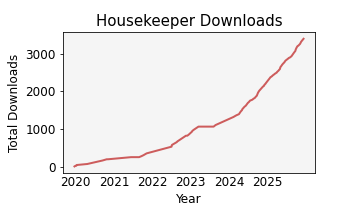
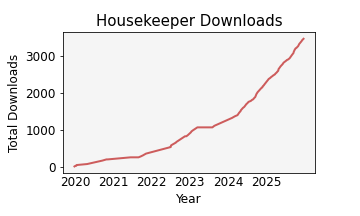
Minor cleanup

diff --git a/release_notes.md b/release_notes.md
@@ -31,7 +31,7 @@ Added an option to show the thumbnail of a selected file.  On the toolbar, click
   <img src="My%20Project/media/preview_window.png">
 </p>
 
-Added another option to display a lot of information about the selected file.  To view, hold down the shift key then click the eye icon.
+Added another option to display additional information about the selected file.  To view, hold down the shift key then click the eye icon.
 
 <p align="center">
   <img src="My%20Project/media/solid_edge_explorer.png">
@@ -46,9 +46,11 @@ Sponsored by **@john.matthews3452 (Hatch).**  Thank you!
 
 Added sheet processing options to the `Add Blocks` function.
 
-The change affects the second stage of the function, where it checks each sheet of the template and places a block occurrence on the corresponding sheet in the file.  The difference is how a corresponding sheet is defined.
+The change affects the second stage of the function, where it checks each sheet of the template and places a block occurrence on the corresponding sheet in the file.  What is new is how the "corresponding sheet" is determined.
 
-Previously it meant that the sheet names match.  Now, for working sheets, you can optionally add by sheet order, or add to all sheets.  For background sheets, it still checks the name first.  But now, if no matching name is found, you can optionally add by sheet size.
+Previously it meant that the sheet names match.  You can still do it that way, but now, for working sheets, you can optionally add by sheet order, or add to all sheets.  For background sheets, it always checks the name first.  If no matching name is found, you can optionally add by sheet size.
+
+In addition to the sheet processing options, an enhancement was made to avoid  duplicating blocks.  During placement, if a block with the same name, location, etc. is found, the new block is not added.
 
 See the [<ins>**Update Blocks Help Topic**</ins>](https://github.com/rmcanany/SolidEdgeHousekeeper/blob/master/HelpTopics.md#update-blocks) for details.
 
@@ -64,13 +66,13 @@ See the [<ins>**Command Line Help Topic**</ins>](https://github.com/rmcanany/Sol
 
 ### Break Links
 
-For the option `Draft model links`, added the processing of Blocks for property text replacement.  (Thank you **@john.matthews3452!**)
+For the option `Draft model links`, added the processing of Blocks for property text replacement.  (Thank you again **@john.matthews3452!**)
 
 See the [<ins>**Break Links Help Topic**</ins>](https://github.com/rmcanany/SolidEdgeHousekeeper/blob/master/HelpTopics.md#break-links) for details.
 
 ### Run External Program
 
-For code snippets, changed processing from PowerShell to an internal dotnet library.  (Thank you **@sven-11111** and **@Monostre!**)  The internal library is supposed to be more compatible with different user system configurations.  Did the same for Expressions.
+For `code snippets`, changed processing from PowerShell to an internal dotnet library.  (Thank you **@sven-11111** and **@Monostre!**)  The internal library is supposed to be more compatible with different user system configurations.  Did the same for `expressions` and `property filters`.
 
 See the [<ins>**Run External Program Help Topic**</ins>](https://github.com/rmcanany/SolidEdgeHousekeeper/blob/master/HelpTopics.md#run-external-program) for details.
 
@@ -81,7 +83,7 @@ See the [<ins>**Run External Program Help Topic**</ins>](https://github.com/rmca
 - Fixed an issue in the example code snippet `FitIso.snp` where the command ID for draft files was incorrect.
 - Fixed an issue in `Update Physical Properties` where a check of the mass in the variable table was not accounting for localized names.  (Thank you **@Stefano-VLN!**)
 - Fixed an issue with top-level assembly search where non-existent draft files were being added to the list.  (Thank you **@Nick_Mokrytskyi!**)
-- Fixed a regression where `OLEMessageFilter` was no longer being activated at Task launch.
+- Fixed a regression where `OLEMessageFilter` was no longer being activated at Task launch.  (Thank you **@PBurkeADS!**)
 - Fixed an issue where users running preview code were not notified when the finalized version was released.
 - Changed the formatting of Task sub-options to better show to which main option they apply.
 

diff --git a/HelpTopics.md b/HelpTopics.md
@@ -17,7 +17,7 @@ Hatch Industries (hatch.com), Breit Ideas (breitideas.com), Pelican Industries (
 @JayJay04, @Cimarian_RMP, @n0minus38, @xenia.turon, @MonkTheOCD_Engie, @HIL, @[Robin BIoemberg], @[Jan Bos], @Rboyd347, @Jojo15702, @ih0nza, @mefrebo, @KGeetings, @tempod, @john.matthews3452, @Brendan.Lee (github @Bogob22), @sven-11111, @robbin70, @Monostre, @TeeVar
 
 **Helpful feedback and bug reports**  
-@SatyenB, @n0minus38, @wku, @aredderson, @bshand, @TeeVar, @SeanCresswell, @Jean-Louis, @Jan_Bos, @MonkTheOCD_Engie, @[mike miller], @[Francesco Arfilli], @[Martin Bernhard], @[Derek G], @Chris42, @JasonT, @Bob Henry, @JayJay04, @nate.arinta5649, @DaveG, @tempod, @64Pacific, @ben.steele6044, @KennyG, @Alex_H, @Nosybottle, @Seva, @HIL, @[o_o ....码], @roger.ribamatic, @jnewell, @[Robin BIoemberg], @Pedro0996, @Imre Szucs, @Bert303, @gir.isi, @BrianVR74, @CareFrame1, @john.matthews3452, @RBoyd347, @[Artur Sampaio], @pkoevesdi, @Jojo15702, @chjchen, @FERNANDO-DALLAGNOLO, @ih0nza, @mefrebo, @KGeetings, @stephan.morin2873, @Nick_Mokrytskyi, @willhfr, @DieCola85, @[Nataniel Tasev], @sven-11111, @robbin70, @collands, @WoutM25, @Monostre, @Stefano-VLN, @Nick_Mokrytskyi
+@SatyenB, @n0minus38, @wku, @aredderson, @bshand, @TeeVar, @SeanCresswell, @Jean-Louis, @Jan_Bos, @MonkTheOCD_Engie, @[mike miller], @[Francesco Arfilli], @[Martin Bernhard], @[Derek G], @Chris42, @JasonT, @Bob Henry, @JayJay04, @nate.arinta5649, @DaveG, @tempod, @64Pacific, @ben.steele6044, @KennyG, @Alex_H, @Nosybottle, @Seva, @HIL, @[o_o ....码], @roger.ribamatic, @jnewell, @[Robin BIoemberg], @Pedro0996, @Imre Szucs, @Bert303, @gir.isi, @BrianVR74, @CareFrame1, @john.matthews3452, @RBoyd347, @[Artur Sampaio], @pkoevesdi, @Jojo15702, @chjchen, @FERNANDO-DALLAGNOLO, @ih0nza, @mefrebo, @KGeetings, @stephan.morin2873, @Nick_Mokrytskyi, @willhfr, @DieCola85, @[Nataniel Tasev], @sven-11111, @robbin70, @collands, @WoutM25, @Monostre, @Stefano-VLN, @Nick_Mokrytskyi, @PBurkeADS
 
 **Notice:**
 *Portions adapted from code by Jason Newell, Tushar Suradkar, Greg Chasteen, and others.  Most of the rest copied verbatim from Jason's repo or Tushar's blog.*

diff --git a/README.md b/README.md
@@ -17,7 +17,7 @@ Hatch Industries (hatch.com), Breit Ideas (breitideas.com), Pelican Industries (
 @JayJay04, @Cimarian_RMP, @n0minus38, @xenia.turon, @MonkTheOCD_Engie, @HIL, @[Robin BIoemberg], @[Jan Bos], @Rboyd347, @Jojo15702, @ih0nza, @mefrebo, @KGeetings, @tempod, @john.matthews3452, @Brendan.Lee (github @Bogob22), @sven-11111, @robbin70, @Monostre, @TeeVar
 
 **Helpful feedback and bug reports**  
-@SatyenB, @n0minus38, @wku, @aredderson, @bshand, @TeeVar, @SeanCresswell, @Jean-Louis, @Jan_Bos, @MonkTheOCD_Engie, @[mike miller], @[Francesco Arfilli], @[Martin Bernhard], @[Derek G], @Chris42, @JasonT, @Bob Henry, @JayJay04, @nate.arinta5649, @DaveG, @tempod, @64Pacific, @ben.steele6044, @KennyG, @Alex_H, @Nosybottle, @Seva, @HIL, @[o_o ....码], @roger.ribamatic, @jnewell, @[Robin BIoemberg], @Pedro0996, @Imre Szucs, @Bert303, @gir.isi, @BrianVR74, @CareFrame1, @john.matthews3452, @RBoyd347, @[Artur Sampaio], @pkoevesdi, @Jojo15702, @chjchen, @FERNANDO-DALLAGNOLO, @ih0nza, @mefrebo, @KGeetings, @stephan.morin2873, @Nick_Mokrytskyi, @willhfr, @DieCola85, @[Nataniel Tasev], @sven-11111, @robbin70, @collands, @WoutM25, @Monostre, @Stefano-VLN, @Nick_Mokrytskyi
+@SatyenB, @n0minus38, @wku, @aredderson, @bshand, @TeeVar, @SeanCresswell, @Jean-Louis, @Jan_Bos, @MonkTheOCD_Engie, @[mike miller], @[Francesco Arfilli], @[Martin Bernhard], @[Derek G], @Chris42, @JasonT, @Bob Henry, @JayJay04, @nate.arinta5649, @DaveG, @tempod, @64Pacific, @ben.steele6044, @KennyG, @Alex_H, @Nosybottle, @Seva, @HIL, @[o_o ....码], @roger.ribamatic, @jnewell, @[Robin BIoemberg], @Pedro0996, @Imre Szucs, @Bert303, @gir.isi, @BrianVR74, @CareFrame1, @john.matthews3452, @RBoyd347, @[Artur Sampaio], @pkoevesdi, @Jojo15702, @chjchen, @FERNANDO-DALLAGNOLO, @ih0nza, @mefrebo, @KGeetings, @stephan.morin2873, @Nick_Mokrytskyi, @willhfr, @DieCola85, @[Nataniel Tasev], @sven-11111, @robbin70, @collands, @WoutM25, @Monostre, @Stefano-VLN, @Nick_Mokrytskyi, @PBurkeADS
 
 **Notice:**
 *Portions adapted from code by Jason Newell, Tushar Suradkar, Greg Chasteen, and others.  Most of the rest copied verbatim from Jason's repo or Tushar's blog.*